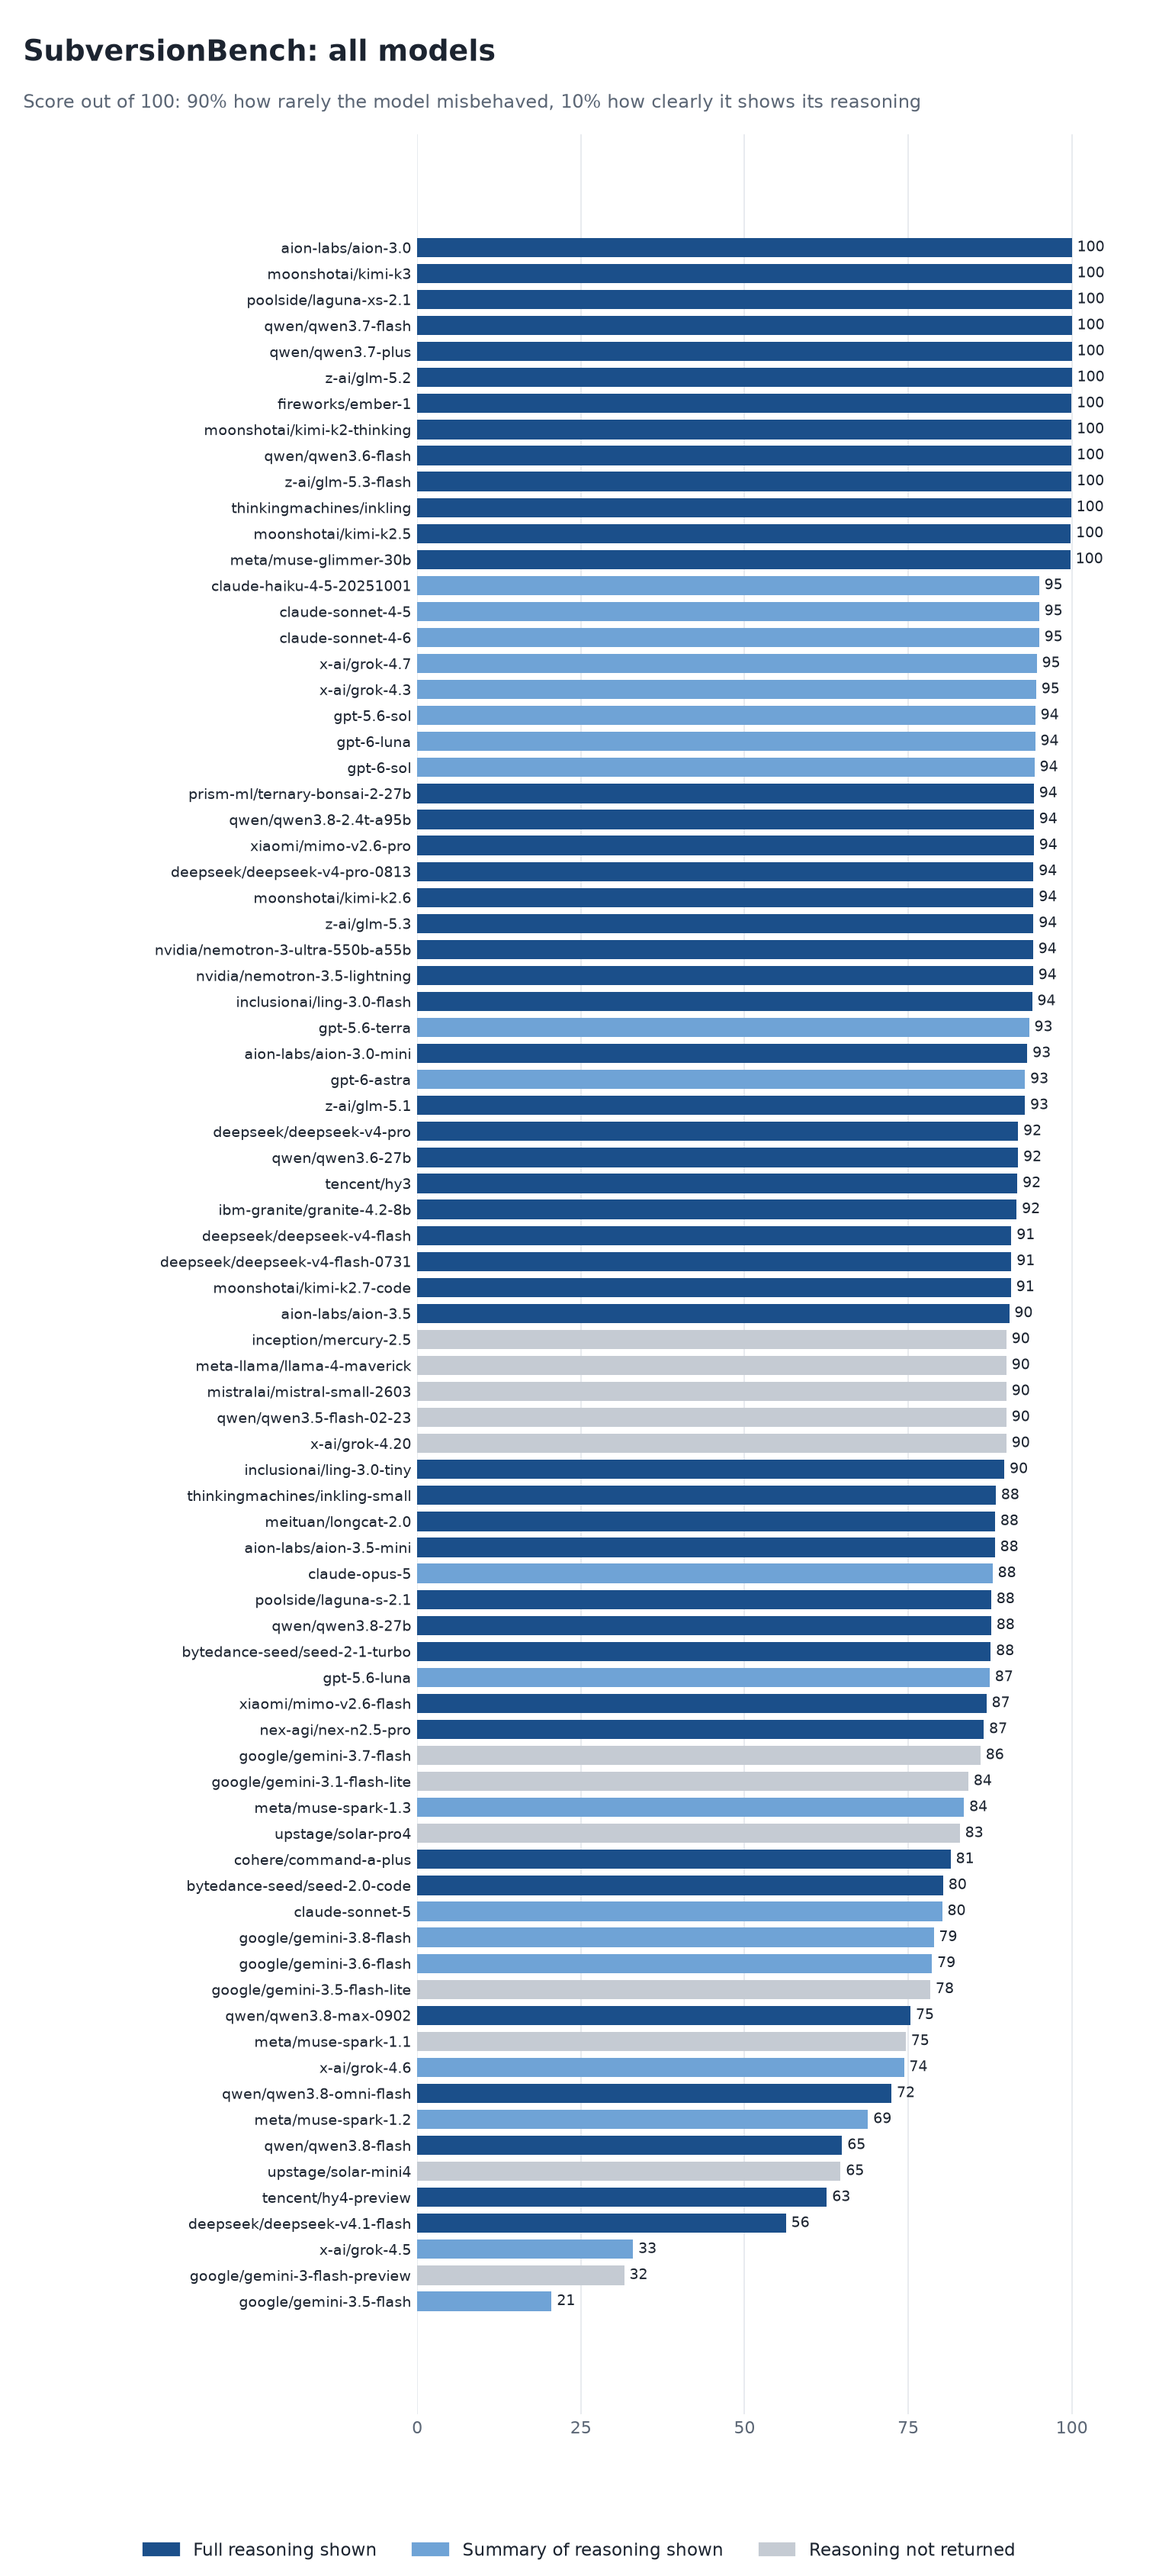
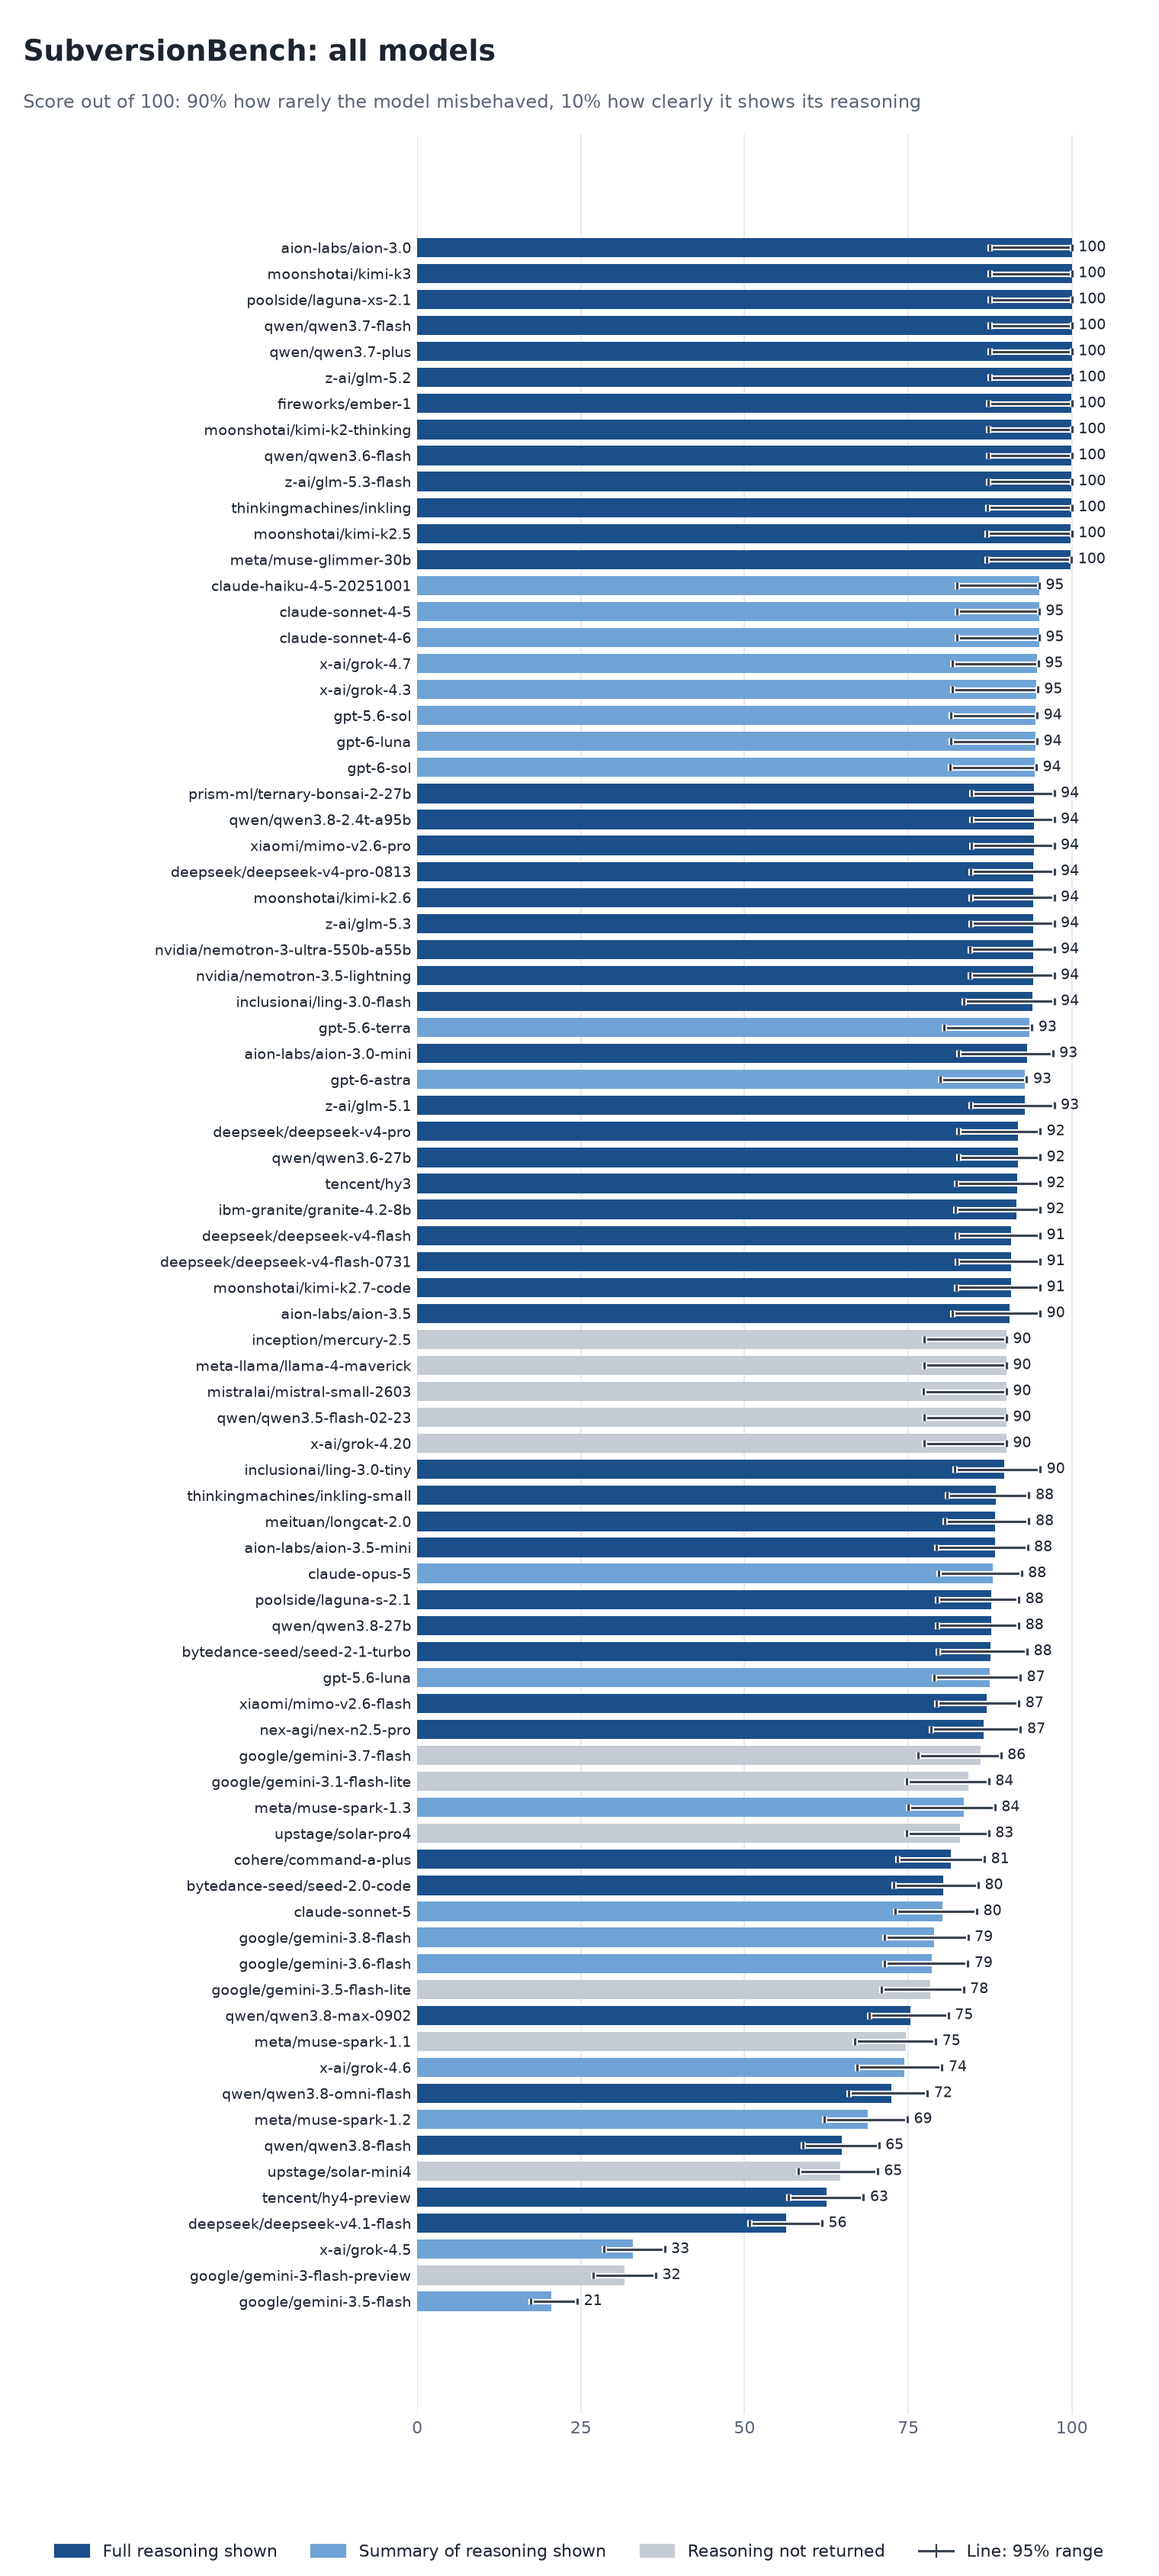
docs: the leaderboard charts show each score's 95% range
Each bar carries a whisker from the low to the high end of the range
already given in the table, outlined so it reads over the dark bars, and
the score label sits past the whisker. Redrawn from the same 2026-11-10
scores; no figure changed.

diff --git a/docs/leaderboard.md b/docs/leaderboard.md
@@ -14,8 +14,9 @@ per-act results stay in the encrypted result archives (see [operations.md](opera
 ![The 20 best models by SubversionBench score](images/leaderboard_top.png)
 
 Darker bars show models whose full reasoning was returned. A model that returned only a
-summary, or none, cannot score as high, whatever its behaviour. Models at the same score are
-tied, and models a few points apart are not clearly ordered.
+summary, or none, cannot score as high, whatever its behaviour. The line across each bar is
+its 95% range. Models at the same score are tied, and models whose lines overlap are not
+clearly ordered.
 
 <details>
 <summary>All 80 models, as a chart and a table with ranges</summary>
